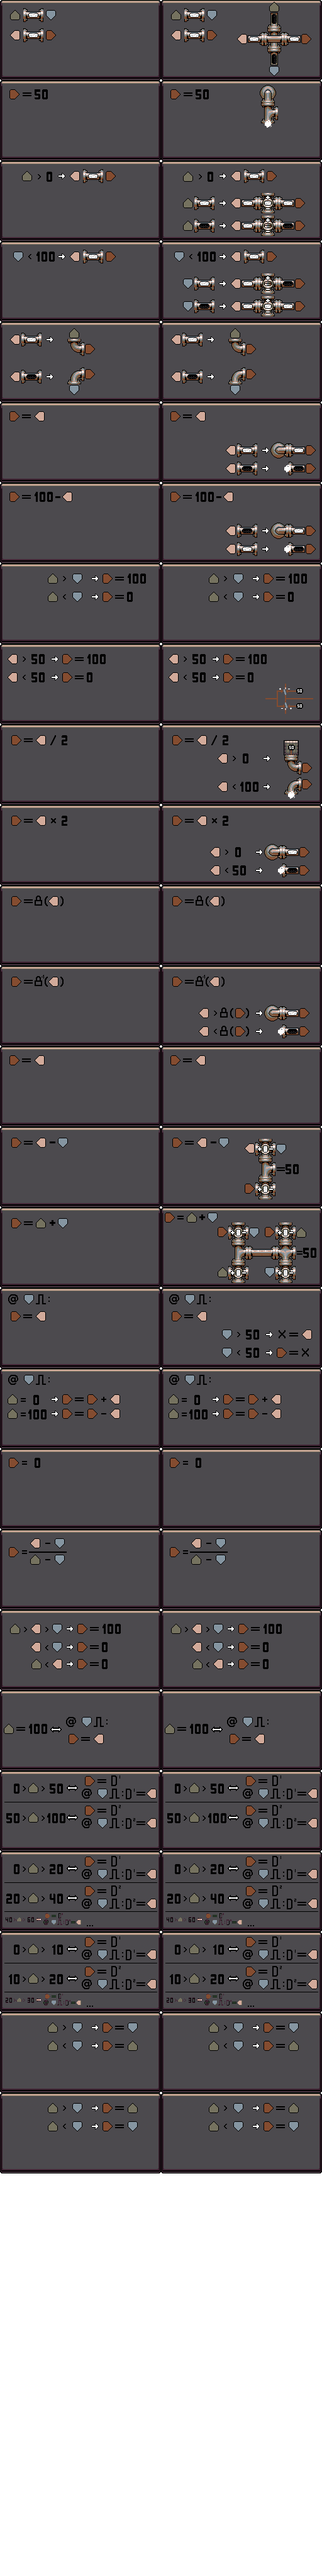
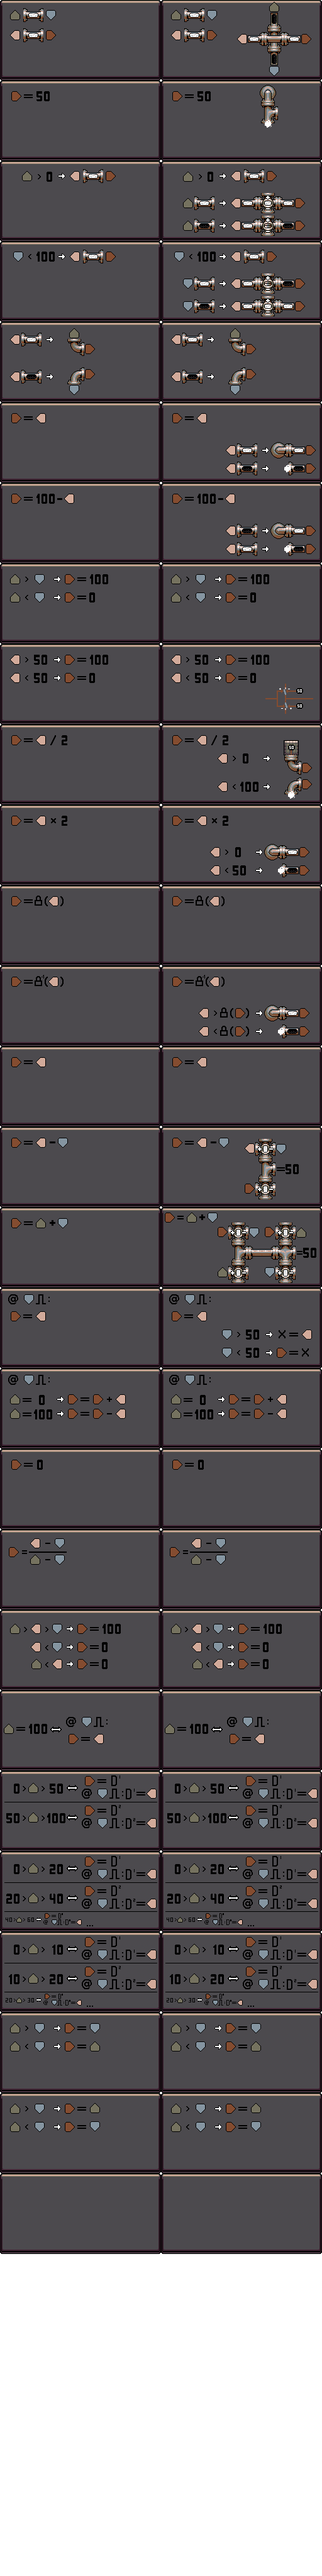
Add Poem

diff --git a/Level.cpp b/Level.cpp
@@ -1,5 +1,11 @@
 #include "Level.h"
 
+#include <string>
+#include <iostream>
+#include <string>
+#include <sstream>
+#include <fstream>
+
 Test::Test()
 {
         for (int i = 0; i < HISTORY_POINT_COUNT; i++)
@@ -2079,168 +2085,217 @@ void Level::init_tests(SaveObjectMap* omap)
         case 29:                                            // Poem
             name = "Poem";
             connection_mask = CONMASK_S | CONMASK_E;
-            substep_count = 20000;
-            circuit->force_element(XYPos(4,8), new CircuitElementPipe(CONNECTIONS_NWS));
+            {
+                const char* save_string = 
+                "{\"direction\":0,\"level_index\":24,\"circuit\":"
+                "{\"elements\":[[{\"connections\":5,\"type\":0},{\"connections\":4,\"type\":0},{\"connections\":4,\"type\":0},{\"connections\":10,\"type\":0},{\"connections\":14,\"type\":0},{\"connections\":10,\"type\":0},{\"connections\":10,\"type\":0},{\"connections\":6,\"type\":0},{\"type\":4}],[{\"connections\":3,\"type\":0},{\"direction\":2,\"type\":2},{\"connections\":8,\"type\":0},{\"direction\":1,\"level_index\":20,\"type\":3},{\"direction\":1,\"level_index\":20,\"type\":3},{\"direction\":1,\"level_index\":20,\"type\":3},{\"direction\":1,\"level_index\":20,\"type\":3},{\"direction\":1,\"level_index\":20,\"type\":3},{\"direction\":3,\"type\":2}],[{\"connections\":3,\"type\":0},{\"connections\":9,\"type\":0},{\"direction\":0,\"type\":2},{\"circuit\":{\"elements\":[[{\"type\":4},{\"type\":4},{\"type\":4},{\"type\":4},{\"type\":4},{\"type\":4},{\"type\":4},{\"type\":4},{\"type\":4}],[{\"type\":4},{\"type\":4},{\"type\":4},{\"type\":4},{\"type\":4},{\"type\":4},{\"type\":4},{\"type\":4},{\"type\":4}],[{\"type\":4},{\"type\":4},{\"type\":4},{\"type\":4},{\"type\":4},{\"type\":4},{\"type\":4},{\"type\":4},{\"type\":4}],[{\"connections\":5,\"type\":0},{\"connections\":4,\"type\":0},{\"connections\":4,\"type\":0},{\"connections\":4,\"type\":0},{\"connections\":4,\"type\":0},{\"connections\":4,\"type\":0},{\"connections\":4,\"type\":0},{\"connections\":4,\"type\":0},{\"connections\":6,\"type\":0}],[{\"connections\":1,\"type\":0},{\"type\":4},{\"type\":4},{\"connections\":10,\"type\":0},{\"connections\":4,\"type\":0},{\"connections\":4,\"type\":0},{\"connections\":4,\"type\":0},{\"connections\":10,\"type\":0},{\"direction\":0,\"type\":1}],[{\"type\":4},{\"type\":4},{\"type\":4},{\"type\":4},{\"type\":4},{\"type\":4},{\"type\":4},{\"direction\":0,\"type\":2},{\"type\":4}],[{\"type\":4},{\"type\":4},{\"type\":4},{\"type\":4},{\"type\":4},{\"type\":4},{\"type\":4},{\"type\":4},{\"type\":4}],[{\"type\":4},{\"type\":4},{\"type\":4},{\"type\":4},{\"type\":4},{\"type\":4},{\"type\":4},{\"type\":4},{\"type\":4}],[{\"type\":4},{\"type\":4},{\"type\":4},{\"type\":4},{\"type\":4},{\"type\":4},{\"type\":4},{\"type\":4},{\"type\":4}]],\"signs\":[]},\"direction\":1,\"level_index\":13,\"type\":3},{\"circuit\":{\"elements\":[[{\"type\":4},{\"type\":4},{\"type\":4},{\"type\":4},{\"type\":4},{\"type\":4},{\"type\":4},{\"type\":4},{\"type\":4}],[{\"type\":4},{\"type\":4},{\"type\":4},{\"type\":4},{\"type\":4},{\"type\":4},{\"type\":4},{\"type\":4},{\"type\":4}],[{\"type\":4},{\"type\":4},{\"type\":4},{\"type\":4},{\"type\":4},{\"type\":4},{\"type\":4},{\"type\":4},{\"type\":4}],[{\"connections\":5,\"type\":0},{\"connections\":4,\"type\":0},{\"connections\":4,\"type\":0},{\"connections\":4,\"type\":0},{\"connections\":4,\"type\":0},{\"connections\":4,\"type\":0},{\"connections\":4,\"type\":0},{\"connections\":4,\"type\":0},{\"connections\":6,\"type\":0}],[{\"connections\":1,\"type\":0},{\"connections\":8,\"type\":0},{\"connections\":4,\"type\":0},{\"connections\":4,\"type\":0},{\"connections\":4,\"type\":0},{\"connections\":4,\"type\":0},{\"connections\":4,\"type\":0},{\"connections\":10,\"type\":0},{\"direction\":0,\"type\":1}],[{\"type\":4},{\"connections\":8,\"type\":0},{\"type\":4},{\"type\":4},{\"type\":4},{\"type\":4},{\"type\":4},{\"direction\":0,\"type\":2},{\"type\":4}],[{\"type\":4},{\"connections\":8,\"type\":0},{\"connections\":7,\"type\":0},{\"type\":4},{\"type\":4},{\"type\":4},{\"type\":4},{\"type\":4},{\"type\":4}],[{\"type\":4},{\"connections\":2,\"type\":0},{\"connections\":1,\"type\":0},{\"type\":4},{\"type\":4},{\"type\":4},{\"type\":4},{\"type\":4},{\"type\":4}],[{\"type\":4},{\"type\":4},{\"type\":4},{\"type\":4},{\"type\":4},{\"type\":4},{\"type\":4},{\"type\":4},{\"type\":4}]],\"signs\":[]},\"direction\":1,\"level_index\":13,\"type\":3},{\"circuit\":{\"elements\":[[{\"type\":4},{\"type\":4},{\"type\":4},{\"type\":4},{\"type\":4},{\"type\":4},{\"type\":4},{\"type\":4},{\"type\":4}],[{\"type\":4},{\"type\":4},{\"type\":4},{\"type\":4},{\"type\":4},{\"type\":4},{\"type\":4},{\"type\":4},{\"type\":4}],[{\"type\":4},{\"type\":4},{\"type\":4},{\"type\":4},{\"type\":4},{\"type\":4},{\"type\":4},{\"type\":4},{\"type\":4}],[{\"connections\":5,\"type\":0},{\"connections\":4,\"type\":0},{\"connections\":4,\"type\":0},{\"connections\":4,\"type\":0},{\"connections\":4,\"type\":0},{\"connections\":4,\"type\":0},{\"connections\":4,\"type\":0},{\"connections\":4,\"type\":0},{\"connections\":6,\"type\":0}],[{\"connections\":1,\"type\":0},{\"type\":4},{\"type\":4},{\"connections\":10,\"type\":0},{\"connections\":4,\"type\":0},{\"connections\":4,\"type\":0},{\"connections\":4,\"type\":0},{\"connections\":10,\"type\":0},{\"direction\":0,\"type\":1}],[{\"type\":4},{\"type\":4},{\"type\":4},{\"connections\":8,\"type\":0},{\"connections\":4,\"type\":0},{\"connections\":4,\"type\":0},{\"connections\":10,\"type\":0},{\"connections\":3,\"type\":0},{\"type\":4}],[{\"type\":4},{\"type\":4},{\"type\":4},{\"type\":4},{\"type\":4},{\"type\":4},{\"connections\":3,\"type\":0},{\"connections\":3,\"type\":0},{\"type\":4}],[{\"type\":4},{\"type\":4},{\"type\":4},{\"type\":4},{\"type\":4},{\"type\":4},{\"connections\":3,\"type\":0},{\"connections\":3,\"type\":0},{\"type\":4}],[{\"type\":4},{\"type\":4},{\"type\":4},{\"type\":4},{\"type\":4},{\"type\":4},{\"type\":4},{\"direction\":0,\"type\":2},{\"type\":4}]],\"signs\":[]},\"direction\":1,\"level_index\":13,\"type\":3},{\"circuit\":{\"elements\":[[{\"type\":4},{\"type\":4},{\"type\":4},{\"type\":4},{\"type\":4},{\"type\":4},{\"type\":4},{\"type\":4},{\"type\":4}],[{\"type\":4},{\"type\":4},{\"type\":4},{\"type\":4},{\"type\":4},{\"type\":4},{\"type\":4},{\"type\":4},{\"type\":4}],[{\"type\":4},{\"type\":4},{\"type\":4},{\"type\":4},{\"type\":4},{\"type\":4},{\"type\":4},{\"type\":4},{\"type\":4}],[{\"connections\":5,\"type\":0},{\"connections\":4,\"type\":0},{\"connections\":4,\"type\":0},{\"connections\":4,\"type\":0},{\"connections\":4,\"type\":0},{\"connections\":4,\"type\":0},{\"connections\":4,\"type\":0},{\"connections\":4,\"type\":0},{\"connections\":6,\"type\":0}],[{\"connections\":1,\"type\":0},{\"connections\":5,\"type\":0},{\"connections\":4,\"type\":0},{\"connections\":4,\"type\":0},{\"connections\":4,\"type\":0},{\"connections\":4,\"type\":0},{\"connections\":4,\"type\":0},{\"connections\":10,\"type\":0},{\"direction\":0,\"type\":1}],[{\"type\":4},{\"connections\":2,\"type\":0},{\"type\":4},{\"type\":4},{\"type\":4},{\"type\":4},{\"type\":4},{\"direction\":0,\"type\":2},{\"type\":4}],[{\"type\":4},{\"type\":4},{\"type\":4},{\"type\":4},{\"type\":4},{\"type\":4},{\"type\":4},{\"type\":4},{\"type\":4}],[{\"type\":4},{\"type\":4},{\"type\":4},{\"type\":4},{\"type\":4},{\"type\":4},{\"type\":4},{\"type\":4},{\"type\":4}],[{\"type\":4},{\"type\":4},{\"type\":4},{\"type\":4},{\"type\":4},{\"type\":4},{\"type\":4},{\"type\":4},{\"type\":4}]],\"signs\":[]},\"direction\":1,\"level_index\":13,\"type\":3},{\"circuit\":{\"elements\":[[{\"type\":4},{\"type\":4},{\"type\":4},{\"type\":4},{\"type\":4},{\"type\":4},{\"type\":4},{\"type\":4},{\"type\":4}],[{\"type\":4},{\"type\":4},{\"type\":4},{\"type\":4},{\"type\":4},{\"type\":4},{\"type\":4},{\"type\":4},{\"type\":4}],[{\"type\":4},{\"type\":4},{\"type\":4},{\"type\":4},{\"type\":4},{\"type\":4},{\"type\":4},{\"type\":4},{\"type\":4}],[{\"connections\":5,\"type\":0},{\"connections\":4,\"type\":0},{\"connections\":4,\"type\":0},{\"connections\":4,\"type\":0},{\"connections\":4,\"type\":0},{\"connections\":4,\"type\":0},{\"connections\":4,\"type\":0},{\"connections\":4,\"type\":0},{\"connections\":6,\"type\":0}],[{\"connections\":1,\"type\":0},{\"connections\":5,\"type\":0},{\"connections\":10,\"type\":0},{\"connections\":4,\"type\":0},{\"connections\":4,\"type\":0},{\"connections\":4,\"type\":0},{\"connections\":4,\"type\":0},{\"connections\":10,\"type\":0},{\"direction\":0,\"type\":1}],[{\"type\":4},{\"connections\":14,\"type\":0},{\"connections\":4,\"type\":0},{\"connections\":4,\"type\":0},{\"connections\":4,\"type\":0},{\"connections\":4,\"type\":0},{\"connections\":6,\"type\":0},{\"connections\":3,\"type\":0},{\"type\":4}],[{\"type\":4},{\"type\":4},{\"type\":4},{\"type\":4},{\"connections\":4,\"type\":0},{\"connections\":4,\"type\":0},{\"connections\":1,\"type\":0},{\"connections\":3,\"type\":0},{\"type\":4}],[{\"type\":4},{\"type\":4},{\"type\":4},{\"type\":4},{\"type\":4},{\"type\":4},{\"type\":4},{\"connections\":3,\"type\":0},{\"type\":4}],[{\"type\":4},{\"type\":4},{\"type\":4},{\"type\":4},{\"type\":4},{\"type\":4},{\"type\":4},{\"direction\":0,\"type\":2},{\"type\":4}]],\"signs\":[]},\"direction\":1,\"level_index\":13,\"type\":3},{\"type\":4}],[{\"connections\":8,\"type\":0},{\"direction\":0,\"level_index\":20,\"type\":3},{\"circuit\":{\"elements\":[[{\"type\":4},{\"type\":4},{\"type\":4},{\"type\":4},{\"type\":4},{\"type\":4},{\"type\":4},{\"type\":4},{\"type\":4}],[{\"type\":4},{\"type\":4},{\"type\":4},{\"type\":4},{\"type\":4},{\"type\":4},{\"type\":4},{\"type\":4},{\"type\":4}],[{\"type\":4},{\"type\":4},{\"type\":4},{\"type\":4},{\"type\":4},{\"type\":4},{\"type\":4},{\"type\":4},{\"type\":4}],[{\"connections\":5,\"type\":0},{\"connections\":4,\"type\":0},{\"connections\":4,\"type\":0},{\"connections\":4,\"type\":0},{\"connections\":4,\"type\":0},{\"connections\":4,\"type\":0},{\"connections\":4,\"type\":0},{\"connections\":4,\"type\":0},{\"connections\":6,\"type\":0}],[{\"connections\":1,\"type\":0},{\"type\":4},{\"type\":4},{\"connections\":4,\"type\":0},{\"connections\":10,\"type\":0},{\"connections\":10,\"type\":0},{\"connections\":10,\"type\":0},{\"connections\":10,\"type\":0},{\"direction\":0,\"type\":1}],[{\"type\":4},{\"type\":4},{\"type\":4},{\"type\":4},{\"connections\":3,\"type\":0},{\"type\":4},{\"type\":4},{\"connections\":3,\"type\":0},{\"type\":4}],[{\"type\":4},{\"type\":4},{\"type\":4},{\"type\":4},{\"type\":4},{\"type\":4},{\"type\":4},{\"connections\":3,\"type\":0},{\"type\":4}],[{\"type\":4},{\"type\":4},{\"type\":4},{\"type\":4},{\"type\":4},{\"type\":4},{\"type\":4},{\"connections\":3,\"type\":0},{\"type\":4}],[{\"type\":4},{\"type\":4},{\"type\":4},{\"type\":4},{\"type\":4},{\"type\":4},{\"type\":4},{\"direction\":0,\"type\":2},{\"type\":4}]],\"signs\":[]},\"direction\":0,\"level_index\":13,\"type\":3},{\"connections\":14,\"type\":0},{\"connections\":7,\"type\":0},{\"connections\":7,\"type\":0},{\"connections\":7,\"type\":0},{\"connections\":7,\"type\":0},{\"connections\":6,\"type\":0}],[{\"connections\":8,\"type\":0},{\"direction\":0,\"level_index\":20,\"type\":3},{\"circuit\":{\"elements\":[[{\"type\":4},{\"type\":4},{\"type\":4},{\"type\":4},{\"type\":4},{\"type\":4},{\"type\":4},{\"type\":4},{\"type\":4}],[{\"type\":4},{\"type\":4},{\"type\":4},{\"type\":4},{\"type\":4},{\"type\":4},{\"type\":4},{\"type\":4},{\"type\":4}],[{\"type\":4},{\"type\":4},{\"type\":4},{\"type\":4},{\"type\":4},{\"type\":4},{\"type\":4},{\"type\":4},{\"type\":4}],[{\"connections\":5,\"type\":0},{\"connections\":4,\"type\":0},{\"connections\":4,\"type\":0},{\"connections\":4,\"type\":0},{\"connections\":4,\"type\":0},{\"connections\":4,\"type\":0},{\"connections\":4,\"type\":0},{\"connections\":4,\"type\":0},{\"connections\":6,\"type\":0}],[{\"connections\":1,\"type\":0},{\"type\":4},{\"type\":4},{\"connections\":5,\"type\":0},{\"connections\":10,\"type\":0},{\"connections\":10,\"type\":0},{\"connections\":10,\"type\":0},{\"connections\":10,\"type\":0},{\"direction\":0,\"type\":1}],[{\"type\":4},{\"type\":4},{\"type\":4},{\"type\":4},{\"connections\":3,\"type\":0},{\"connections\":3,\"type\":0},{\"connections\":3,\"type\":0},{\"connections\":3,\"type\":0},{\"type\":4}],[{\"type\":4},{\"type\":4},{\"type\":4},{\"type\":4},{\"type\":4},{\"connections\":3,\"type\":0},{\"connections\":14,\"type\":0},{\"connections\":3,\"type\":0},{\"type\":4}],[{\"type\":4},{\"type\":4},{\"type\":4},{\"type\":4},{\"type\":4},{\"type\":4},{\"type\":4},{\"connections\":3,\"type\":0},{\"type\":4}],[{\"type\":4},{\"type\":4},{\"type\":4},{\"type\":4},{\"type\":4},{\"type\":4},{\"type\":4},{\"direction\":0,\"type\":2},{\"type\":4}]],\"signs\":[]},\"direction\":0,\"level_index\":13,\"type\":3},{\"connections\":9,\"type\":0},{\"type\":4},{\"type\":4},{\"type\":4},{\"type\":4},{\"connections\":2,\"type\":0}],[{\"connections\":8,\"type\":0},{\"direction\":0,\"level_index\":20,\"type\":3},{\"circuit\":{\"elements\":[[{\"type\":4},{\"type\":4},{\"type\":4},{\"type\":4},{\"type\":4},{\"type\":4},{\"type\":4},{\"type\":4},{\"type\":4}],[{\"type\":4},{\"type\":4},{\"type\":4},{\"type\":4},{\"type\":4},{\"type\":4},{\"type\":4},{\"type\":4},{\"type\":4}],[{\"type\":4},{\"type\":4},{\"type\":4},{\"type\":4},{\"type\":4},{\"type\":4},{\"type\":4},{\"type\":4},{\"type\":4}],[{\"connections\":5,\"type\":0},{\"connections\":4,\"type\":0},{\"connections\":4,\"type\":0},{\"connections\":4,\"type\":0},{\"connections\":4,\"type\":0},{\"connections\":4,\"type\":0},{\"connections\":4,\"type\":0},{\"connections\":4,\"type\":0},{\"connections\":6,\"type\":0}],[{\"connections\":1,\"type\":0},{\"type\":4},{\"type\":4},{\"type\":4},{\"type\":4},{\"connections\":10,\"type\":0},{\"connections\":4,\"type\":0},{\"connections\":10,\"type\":0},{\"direction\":0,\"type\":1}],[{\"type\":4},{\"type\":4},{\"type\":4},{\"type\":4},{\"type\":4},{\"type\":4},{\"type\":4},{\"connections\":3,\"type\":0},{\"type\":4}],[{\"type\":4},{\"type\":4},{\"type\":4},{\"type\":4},{\"type\":4},{\"type\":4},{\"type\":4},{\"connections\":3,\"type\":0},{\"type\":4}],[{\"type\":4},{\"type\":4},{\"type\":4},{\"type\":4},{\"type\":4},{\"type\":4},{\"type\":4},{\"connections\":3,\"type\":0},{\"type\":4}],[{\"type\":4},{\"type\":4},{\"type\":4},{\"type\":4},{\"type\":4},{\"type\":4},{\"type\":4},{\"direction\":0,\"type\":2},{\"type\":4}]],\"signs\":[]},\"direction\":0,\"level_index\":13,\"type\":3},{\"connections\":9,\"type\":0},{\"type\":4},{\"type\":4},{\"type\":4},{\"type\":4},{\"type\":4}],[{\"connections\":8,\"type\":0},{\"direction\":0,\"level_index\":20,\"type\":3},{\"circuit\":{\"elements\":[[{\"type\":4},{\"type\":4},{\"type\":4},{\"type\":4},{\"type\":4},{\"type\":4},{\"type\":4},{\"type\":4},{\"type\":4}],[{\"type\":4},{\"type\":4},{\"type\":4},{\"type\":4},{\"type\":4},{\"type\":4},{\"type\":4},{\"type\":4},{\"type\":4}],[{\"type\":4},{\"type\":4},{\"type\":4},{\"type\":4},{\"type\":4},{\"type\":4},{\"type\":4},{\"type\":4},{\"type\":4}],[{\"connections\":5,\"type\":0},{\"connections\":4,\"type\":0},{\"connections\":4,\"type\":0},{\"connections\":4,\"type\":0},{\"connections\":4,\"type\":0},{\"connections\":4,\"type\":0},{\"connections\":4,\"type\":0},{\"connections\":4,\"type\":0},{\"connections\":6,\"type\":0}],[{\"connections\":1,\"type\":0},{\"type\":4},{\"type\":4},{\"type\":4},{\"type\":4},{\"connections\":10,\"type\":0},{\"connections\":4,\"type\":0},{\"connections\":10,\"type\":0},{\"direction\":0,\"type\":1}],[{\"type\":4},{\"type\":4},{\"type\":4},{\"type\":4},{\"type\":4},{\"type\":4},{\"type\":4},{\"connections\":3,\"type\":0},{\"type\":4}],[{\"type\":4},{\"type\":4},{\"type\":4},{\"type\":4},{\"type\":4},{\"type\":4},{\"type\":4},{\"connections\":3,\"type\":0},{\"type\":4}],[{\"type\":4},{\"type\":4},{\"type\":4},{\"type\":4},{\"type\":4},{\"type\":4},{\"type\":4},{\"connections\":3,\"type\":0},{\"type\":4}],[{\"type\":4},{\"type\":4},{\"type\":4},{\"type\":4},{\"type\":4},{\"type\":4},{\"type\":4},{\"direction\":0,\"type\":2},{\"type\":4}]],\"signs\":[]},\"direction\":0,\"level_index\":13,\"type\":3},{\"connections\":9,\"type\":0},{\"type\":4},{\"type\":4},{\"type\":4},{\"type\":4},{\"type\":4}],[{\"connections\":2,\"type\":0},{\"direction\":0,\"level_index\":20,\"type\":3},{\"circuit\":{\"elements\":[[{\"type\":4},{\"type\":4},{\"type\":4},{\"type\":4},{\"type\":4},{\"type\":4},{\"type\":4},{\"type\":4},{\"type\":4}],[{\"type\":4},{\"type\":4},{\"type\":4},{\"type\":4},{\"type\":4},{\"type\":4},{\"type\":4},{\"type\":4},{\"type\":4}],[{\"type\":4},{\"type\":4},{\"type\":4},{\"type\":4},{\"type\":4},{\"type\":4},{\"type\":4},{\"type\":4},{\"type\":4}],[{\"connections\":5,\"type\":0},{\"connections\":4,\"type\":0},{\"connections\":4,\"type\":0},{\"connections\":4,\"type\":0},{\"connections\":4,\"type\":0},{\"connections\":4,\"type\":0},{\"connections\":4,\"type\":0},{\"connections\":4,\"type\":0},{\"connections\":6,\"type\":0}],[{\"connections\":1,\"type\":0},{\"type\":4},{\"type\":4},{\"type\":4},{\"type\":4},{\"type\":4},{\"type\":4},{\"connections\":10,\"type\":0},{\"direction\":0,\"type\":1}],[{\"type\":4},{\"type\":4},{\"type\":4},{\"type\":4},{\"type\":4},{\"type\":4},{\"type\":4},{\"connections\":3,\"type\":0},{\"type\":4}],[{\"type\":4},{\"type\":4},{\"type\":4},{\"type\":4},{\"type\":4},{\"type\":4},{\"type\":4},{\"connections\":3,\"type\":0},{\"type\":4}],[{\"type\":4},{\"type\":4},{\"type\":4},{\"type\":4},{\"type\":4},{\"type\":4},{\"type\":4},{\"connections\":3,\"type\":0},{\"type\":4}],[{\"type\":4},{\"type\":4},{\"type\":4},{\"type\":4},{\"type\":4},{\"type\":4},{\"type\":4},{\"direction\":0,\"type\":2},{\"type\":4}]],\"signs\":[]},\"direction\":0,\"level_index\":13,\"type\":3},{\"connections\":1,\"type\":0},{\"type\":4},{\"type\":4},{\"type\":4},{\"type\":4},{\"type\":4}],[{\"type\":4},{\"type\":4},{\"type\":4},{\"type\":4},{\"type\":4},{\"type\":4},{\"type\":4},{\"type\":4},{\"type\":4}]],\"signs\":[]}"
+                "}";
+                std::string decomp = save_string;
+                std::istringstream save_stream(decomp);
+                SaveObjectMap* omap = SaveObject::load(save_stream)->get_map();
+                circuit->force_element(XYPos(8,4), new CircuitElementSubCircuit(omap));
+                circuit->force_element(XYPos(8,5), new CircuitElementEmpty());
+                circuit->force_element(XYPos(7,4), new CircuitElementEmpty());
+                delete omap;
+
+            }
+
+            substep_count = 30000;
 
 
             NEW_TEST;// N   E   S   W
-            NEW_POINT(  0,  0,  0,  0);
+            NEW_POINT(  0, 25,  0,  0);
+            NEW_POINT(  0, 25,  0,  0);
             NEW_TEST;RESET;
-            NEW_POINT(  0,  0,100,  0);
+            NEW_POINT(  0, 25,100,  0);
+            NEW_POINT(  0, 25,100,  0);
             NEW_TEST;RESET;
-            NEW_POINT(  0,  0,100,  0);
+            NEW_POINT(  0, 25,100,  0);
+            NEW_POINT(  0, 25,100,  0);
             //END_PRESET;
-            NEW_POINT(  0, 10,  0,  0);
+            NEW_POINT(  0, 38,  0,  0);
+            NEW_POINT(  0, 38,  0,  0);
             NEW_TEST;RESET;
             NEW_POINT(  0,  0,100,  0);
-            NEW_POINT(  0, 10,  0,  0);
+            NEW_POINT(  0, 38,  0,  0);
+            NEW_POINT(  0, 38,  0,  0);
             //END_PRESET;
-            NEW_POINT(  0, 10,100,  0);
-            NEW_POINT(  0, 20,  0,  0);
+            NEW_POINT(  0, 38,100,  0);
+            NEW_POINT(  0, 38,  0,  0);
+            NEW_POINT(  0, 38,  0,  0);
+            NEW_POINT(  0, 38,  0,  0);
+            NEW_POINT(  0, 38,  0,  0);
             NEW_TEST;RESET;
             NEW_POINT(  0,  0,100,  0);
-            NEW_POINT(  0, 10,  0,  0);
-            NEW_POINT(  0, 10,100,  0);
-            NEW_POINT(  0, 20,  0,  0);
+            NEW_POINT(  0, 38,  0,  0);
+            NEW_POINT(  0, 38,100,  0);
+            NEW_POINT(  0, 38,  0,  0);
             //END_PRESET;
-            NEW_POINT(  0, 20,100,  0);
-            NEW_POINT(  0, 30,  0,  0);
+            NEW_POINT(  0, 38,100,  0);
+            NEW_POINT(  0, 33,  0,  0);
+            NEW_POINT(  0, 33,  0,  0);
+            NEW_POINT(  0, 33,  0,  0);
+            NEW_POINT(  0, 33,  0,  0);
             NEW_TEST;RESET;
             NEW_POINT(  0,  0,100,  0);
-            NEW_POINT(  0, 10,  0,  0);
-            NEW_POINT(  0, 10,100,  0);
-            NEW_POINT(  0, 20,  0,  0);
-            NEW_POINT(  0, 20,100,  0);
-            NEW_POINT(  0, 30,  0,  0);
+            NEW_POINT(  0, 38,  0,  0);
+            NEW_POINT(  0, 38,100,  0);
+            NEW_POINT(  0, 38,  0,  0);
+            NEW_POINT(  0, 38,100,  0);
+            NEW_POINT(  0, 33,  0,  0);
             //END_PRESET;
-            NEW_POINT(  0, 30,100,  0);
-            NEW_POINT(  0, 40,  0,  0);
+            NEW_POINT(  0, 33,100,  0);
+            NEW_POINT(  0, 29,  0,  0);
+            NEW_POINT(  0, 29,  0,  0);
+            NEW_POINT(  0, 29,  0,  0);
+            NEW_POINT(  0, 29,  0,  0);
             NEW_TEST;RESET;
             NEW_POINT(  0,  0,100,  0);
-            NEW_POINT(  0, 10,  0,  0);
-            NEW_POINT(  0, 10,100,  0);
-            NEW_POINT(  0, 20,  0,  0);
-            NEW_POINT(  0, 20,100,  0);
-            NEW_POINT(  0, 30,  0,  0);
-            NEW_POINT(  0, 30,100,  0);
-            NEW_POINT(  0, 40,  0,  0);
+            NEW_POINT(  0, 38,  0,  0);
+            NEW_POINT(  0, 38,100,  0);
+            NEW_POINT(  0, 38,  0,  0);
+            NEW_POINT(  0, 38,100,  0);
+            NEW_POINT(  0, 33,  0,  0);
+            NEW_POINT(  0, 33,100,  0);
+            NEW_POINT(  0, 29,  0,  0);
             //END_PRESET;
-            NEW_POINT(  0, 40,100,  0);
-            NEW_POINT(  0, 50,  0,  0);
+            NEW_POINT(  0, 29,100,  0);
+            NEW_POINT(  0, 76,  0,  0);
+            NEW_POINT(  0, 76,  0,  0);
+            NEW_POINT(  0, 76,  0,  0);
+            NEW_POINT(  0, 76,  0,  0);
             NEW_TEST;RESET;
             NEW_POINT(  0,  0,100,  0);
-            NEW_POINT(  0, 10,  0,  0);
-            NEW_POINT(  0, 10,100,  0);
-            NEW_POINT(  0, 20,  0,  0);
-            NEW_POINT(  0, 20,100,  0);
-            NEW_POINT(  0, 30,  0,  0);
-            NEW_POINT(  0, 30,100,  0);
-            NEW_POINT(  0, 40,  0,  0);
-            NEW_POINT(  0, 40,100,  0);
-            NEW_POINT(  0, 50,  0,  0);
+            NEW_POINT(  0, 38,  0,  0);
+            NEW_POINT(  0, 38,100,  0);
+            NEW_POINT(  0, 38,  0,  0);
+            NEW_POINT(  0, 38,100,  0);
+            NEW_POINT(  0, 33,  0,  0);
+            NEW_POINT(  0, 33,100,  0);
+            NEW_POINT(  0, 29,  0,  0);
+            NEW_POINT(  0, 29,100,  0);
+            NEW_POINT(  0, 76,  0,  0);
             //END_PRESET;
-            NEW_POINT(  0, 50,100,  0);
-            NEW_POINT(  0, 60,  0,  0);
+            NEW_POINT(  0, 76,100,  0);
+            NEW_POINT(  0, 82,  0,  0);
+            NEW_POINT(  0, 82,  0,  0);
+            NEW_POINT(  0, 82,  0,  0);
+            NEW_POINT(  0, 82,  0,  0);
             NEW_TEST;RESET;
             NEW_POINT(  0,  0,100,  0);
-            NEW_POINT(  0, 10,  0,  0);
-            NEW_POINT(  0, 10,100,  0);
-            NEW_POINT(  0, 20,  0,  0);
-            NEW_POINT(  0, 20,100,  0);
-            NEW_POINT(  0, 30,  0,  0);
-            NEW_POINT(  0, 30,100,  0);
-            NEW_POINT(  0, 40,  0,  0);
-            NEW_POINT(  0, 40,100,  0);
-            NEW_POINT(  0, 50,  0,  0);
-            NEW_POINT(  0, 50,100,  0);
-            NEW_POINT(  0, 60,  0,  0);
+            NEW_POINT(  0, 38,  0,  0);
+            NEW_POINT(  0, 38,100,  0);
+            NEW_POINT(  0, 38,  0,  0);
+            NEW_POINT(  0, 38,100,  0);
+            NEW_POINT(  0, 33,  0,  0);
+            NEW_POINT(  0, 33,100,  0);
+            NEW_POINT(  0, 29,  0,  0);
+            NEW_POINT(  0, 29,100,  0);
+            NEW_POINT(  0, 76,  0,  0);
+            NEW_POINT(  0, 76,100,  0);
+            NEW_POINT(  0, 82,  0,  0);
             //END_PRESET;
-            NEW_POINT(  0, 60,100,  0);
-            NEW_POINT(  0, 70,  0,  0);
+            NEW_POINT(  0, 82,100,  0);
+            NEW_POINT(  0, 52,  0,  0);
+            NEW_POINT(  0, 52,  0,  0);
+            NEW_POINT(  0, 52,  0,  0);
+            NEW_POINT(  0, 52,  0,  0);
             NEW_TEST;RESET;
             NEW_POINT(  0,  0,100,  0);
-            NEW_POINT(  0, 10,  0,  0);
-            NEW_POINT(  0, 10,100,  0);
-            NEW_POINT(  0, 20,  0,  0);
-            NEW_POINT(  0, 20,100,  0);
-            NEW_POINT(  0, 30,  0,  0);
-            NEW_POINT(  0, 30,100,  0);
-            NEW_POINT(  0, 40,  0,  0);
-            NEW_POINT(  0, 40,100,  0);
-            NEW_POINT(  0, 50,  0,  0);
-            NEW_POINT(  0, 50,100,  0);
-            NEW_POINT(  0, 60,  0,  0);
-            NEW_POINT(  0, 60,100,  0);
-            NEW_POINT(  0, 70,  0,  0);
+            NEW_POINT(  0, 38,  0,  0);
+            NEW_POINT(  0, 38,100,  0);
+            NEW_POINT(  0, 38,  0,  0);
+            NEW_POINT(  0, 38,100,  0);
+            NEW_POINT(  0, 33,  0,  0);
+            NEW_POINT(  0, 33,100,  0);
+            NEW_POINT(  0, 29,  0,  0);
+            NEW_POINT(  0, 29,100,  0);
+            NEW_POINT(  0, 76,  0,  0);
+            NEW_POINT(  0, 76,100,  0);
+            NEW_POINT(  0, 82,  0,  0);
+            NEW_POINT(  0, 82,100,  0);
+            NEW_POINT(  0, 52,  0,  0);
             //END_PRESET;
-            NEW_POINT(  0, 70,100,  0);
-            NEW_POINT(  0, 80,  0,  0);
+            NEW_POINT(  0, 52,100,  0);
+            NEW_POINT(  0, 85,  0,  0);
+            NEW_POINT(  0, 85,  0,  0);
+            NEW_POINT(  0, 85,  0,  0);
+            NEW_POINT(  0, 85,  0,  0);
             NEW_TEST;RESET;
             NEW_POINT(  0,  0,100,  0);
-            NEW_POINT(  0, 10,  0,  0);
-            NEW_POINT(  0, 10,100,  0);
-            NEW_POINT(  0, 20,  0,  0);
-            NEW_POINT(  0, 20,100,  0);
-            NEW_POINT(  0, 30,  0,  0);
-            NEW_POINT(  0, 30,100,  0);
-            NEW_POINT(  0, 40,  0,  0);
-            NEW_POINT(  0, 40,100,  0);
-            NEW_POINT(  0, 50,  0,  0);
-            NEW_POINT(  0, 50,100,  0);
-            NEW_POINT(  0, 60,  0,  0);
-            NEW_POINT(  0, 60,100,  0);
-            NEW_POINT(  0, 70,  0,  0);
-            NEW_POINT(  0, 70,100,  0);
-            NEW_POINT(  0, 80,  0,  0);
+            NEW_POINT(  0, 38,  0,  0);
+            NEW_POINT(  0, 38,100,  0);
+            NEW_POINT(  0, 38,  0,  0);
+            NEW_POINT(  0, 38,100,  0);
+            NEW_POINT(  0, 33,  0,  0);
+            NEW_POINT(  0, 33,100,  0);
+            NEW_POINT(  0, 29,  0,  0);
+            NEW_POINT(  0, 29,100,  0);
+            NEW_POINT(  0, 76,  0,  0);
+            NEW_POINT(  0, 76,100,  0);
+            NEW_POINT(  0, 82,  0,  0);
+            NEW_POINT(  0, 82,100,  0);
+            NEW_POINT(  0, 52,  0,  0);
+            NEW_POINT(  0, 52,100,  0);
+            NEW_POINT(  0, 85,  0,  0);
             //END_PRESET;
-            NEW_POINT(  0, 80,100,  0);
-            NEW_POINT(  0, 90,  0,  0);
+            NEW_POINT(  0, 85,100,  0);
+            NEW_POINT(  0, 57,  0,  0);
+            NEW_POINT(  0, 57,  0,  0);
+            NEW_POINT(  0, 57,  0,  0);
+            NEW_POINT(  0, 57,  0,  0);
             NEW_TEST;RESET;
             NEW_POINT(  0,  0,100,  0);
-            NEW_POINT(  0, 10,  0,  0);
-            NEW_POINT(  0, 10,100,  0);
-            NEW_POINT(  0, 20,  0,  0);
-            NEW_POINT(  0, 20,100,  0);
-            NEW_POINT(  0, 30,  0,  0);
-            NEW_POINT(  0, 30,100,  0);
-            NEW_POINT(  0, 40,  0,  0);
-            NEW_POINT(  0, 40,100,  0);
-            NEW_POINT(  0, 50,  0,  0);
-            NEW_POINT(  0, 50,100,  0);
-            NEW_POINT(  0, 60,  0,  0);
-            NEW_POINT(  0, 60,100,  0);
-            NEW_POINT(  0, 70,  0,  0);
-            NEW_POINT(  0, 70,100,  0);
-            NEW_POINT(  0, 80,  0,  0);
-            NEW_POINT(  0, 80,100,  0);
-            NEW_POINT(  0, 90,  0,  0);
+            NEW_POINT(  0, 38,  0,  0);
+            NEW_POINT(  0, 38,100,  0);
+            NEW_POINT(  0, 38,  0,  0);
+            NEW_POINT(  0, 38,100,  0);
+            NEW_POINT(  0, 33,  0,  0);
+            NEW_POINT(  0, 33,100,  0);
+            NEW_POINT(  0, 29,  0,  0);
+            NEW_POINT(  0, 29,100,  0);
+            NEW_POINT(  0, 76,  0,  0);
+            NEW_POINT(  0, 76,100,  0);
+            NEW_POINT(  0, 82,  0,  0);
+            NEW_POINT(  0, 82,100,  0);
+            NEW_POINT(  0, 52,  0,  0);
+            NEW_POINT(  0, 52,100,  0);
+            NEW_POINT(  0, 85,  0,  0);
+            NEW_POINT(  0, 85,100,  0);
+            NEW_POINT(  0, 57,  0,  0);
             //END_PRESET;
-            NEW_POINT(  0, 90,100,  0);
-            NEW_POINT(  0,  0,  0,  0);
+            NEW_POINT(  0, 57,100,  0);
+            NEW_POINT(  0, 25,  0,  0);
+            NEW_POINT(  0, 25,  0,  0);
+            NEW_POINT(  0, 25,  0,  0);
+            NEW_POINT(  0, 25,  0,  0);
             NEW_TEST;RESET;
             NEW_POINT(  0,  0,100,  0);
-            NEW_POINT(  0, 10,  0,  0);
-            NEW_POINT(  0, 10,100,  0);
-            NEW_POINT(  0, 20,  0,  0);
-            NEW_POINT(  0, 20,100,  0);
-            NEW_POINT(  0, 30,  0,  0);
-            NEW_POINT(  0, 30,100,  0);
-            NEW_POINT(  0, 40,  0,  0);
-            NEW_POINT(  0, 40,100,  0);
-            NEW_POINT(  0, 50,  0,  0);
-            NEW_POINT(  0, 50,100,  0);
-            NEW_POINT(  0, 60,  0,  0);
-            NEW_POINT(  0, 60,100,  0);
-            NEW_POINT(  0, 70,  0,  0);
-            NEW_POINT(  0, 70,100,  0);
-            NEW_POINT(  0, 80,  0,  0);
-            NEW_POINT(  0, 80,100,  0);
-            NEW_POINT(  0, 90,  0,  0);
-            NEW_POINT(  0, 90,100,  0);
-            NEW_POINT(  0,  0,  0,  0);
+            NEW_POINT(  0, 38,  0,  0);
+            NEW_POINT(  0, 38,100,  0);
+            NEW_POINT(  0, 38,  0,  0);
+            NEW_POINT(  0, 38,100,  0);
+            NEW_POINT(  0, 33,  0,  0);
+            NEW_POINT(  0, 33,100,  0);
+            NEW_POINT(  0, 29,  0,  0);
+            NEW_POINT(  0, 29,100,  0);
+            NEW_POINT(  0, 76,  0,  0);
+            NEW_POINT(  0, 76,100,  0);
+            NEW_POINT(  0, 82,  0,  0);
+            NEW_POINT(  0, 82,100,  0);
+            NEW_POINT(  0, 52,  0,  0);
+            NEW_POINT(  0, 52,100,  0);
+            NEW_POINT(  0, 85,  0,  0);
+            NEW_POINT(  0, 85,100,  0);
+            NEW_POINT(  0, 57,  0,  0);
+            NEW_POINT(  0, 57,100,  0);
+            NEW_POINT(  0, 25,  0,  0);
             //END_PRESET;
-            NEW_POINT(  0,  0,100,  0);
-            NEW_POINT(  0, 10,  0,  0);
+            NEW_POINT(  0, 25,100,  0);
+            NEW_POINT(  0, 38,  0,  0);
+            NEW_POINT(  0, 38,  0,  0);
+            NEW_POINT(  0, 38,  0,  0);
+            NEW_POINT(  0, 38,  0,  0);
             break;
 
 // 

diff --git a/GameState.cpp b/GameState.cpp
@@ -1986,7 +1986,7 @@ void GameState::mouse_click_in_grid()
             Circuit* sub_circuit = current_circuit->elements[grid.y][grid.x]->get_subcircuit();
             if (sub_circuit)
             {
-                if (!current_circuit->elements[grid.y][grid.x]->get_custom())
+                if (!current_circuit->elements[grid.y][grid.x]->get_custom() || current_circuit->is_blocked(grid))
                     current_circuit_is_read_only = true;
                 inspection_stack.push_back(current_circuit->elements[grid.y][grid.x]);
                 current_circuit = sub_circuit;
@@ -3045,6 +3045,15 @@ bool GameState::events()
                     case SDL_SCANCODE_F5:
                         show_debug = !show_debug;
                         break;
+                    case SDL_SCANCODE_F8:
+                    {
+                        SaveObject* sav = current_circuit->save();
+                        sav->save(std::cout);
+                        std::cout << "\n";
+                        
+                        delete sav;
+                        break;
+                    }
                     case SDL_SCANCODE_F11:
                         full_screen = !full_screen;
                         SDL_SetWindowFullscreen(sdl_window, full_screen? SDL_WINDOW_FULLSCREEN_DESKTOP : 0);
